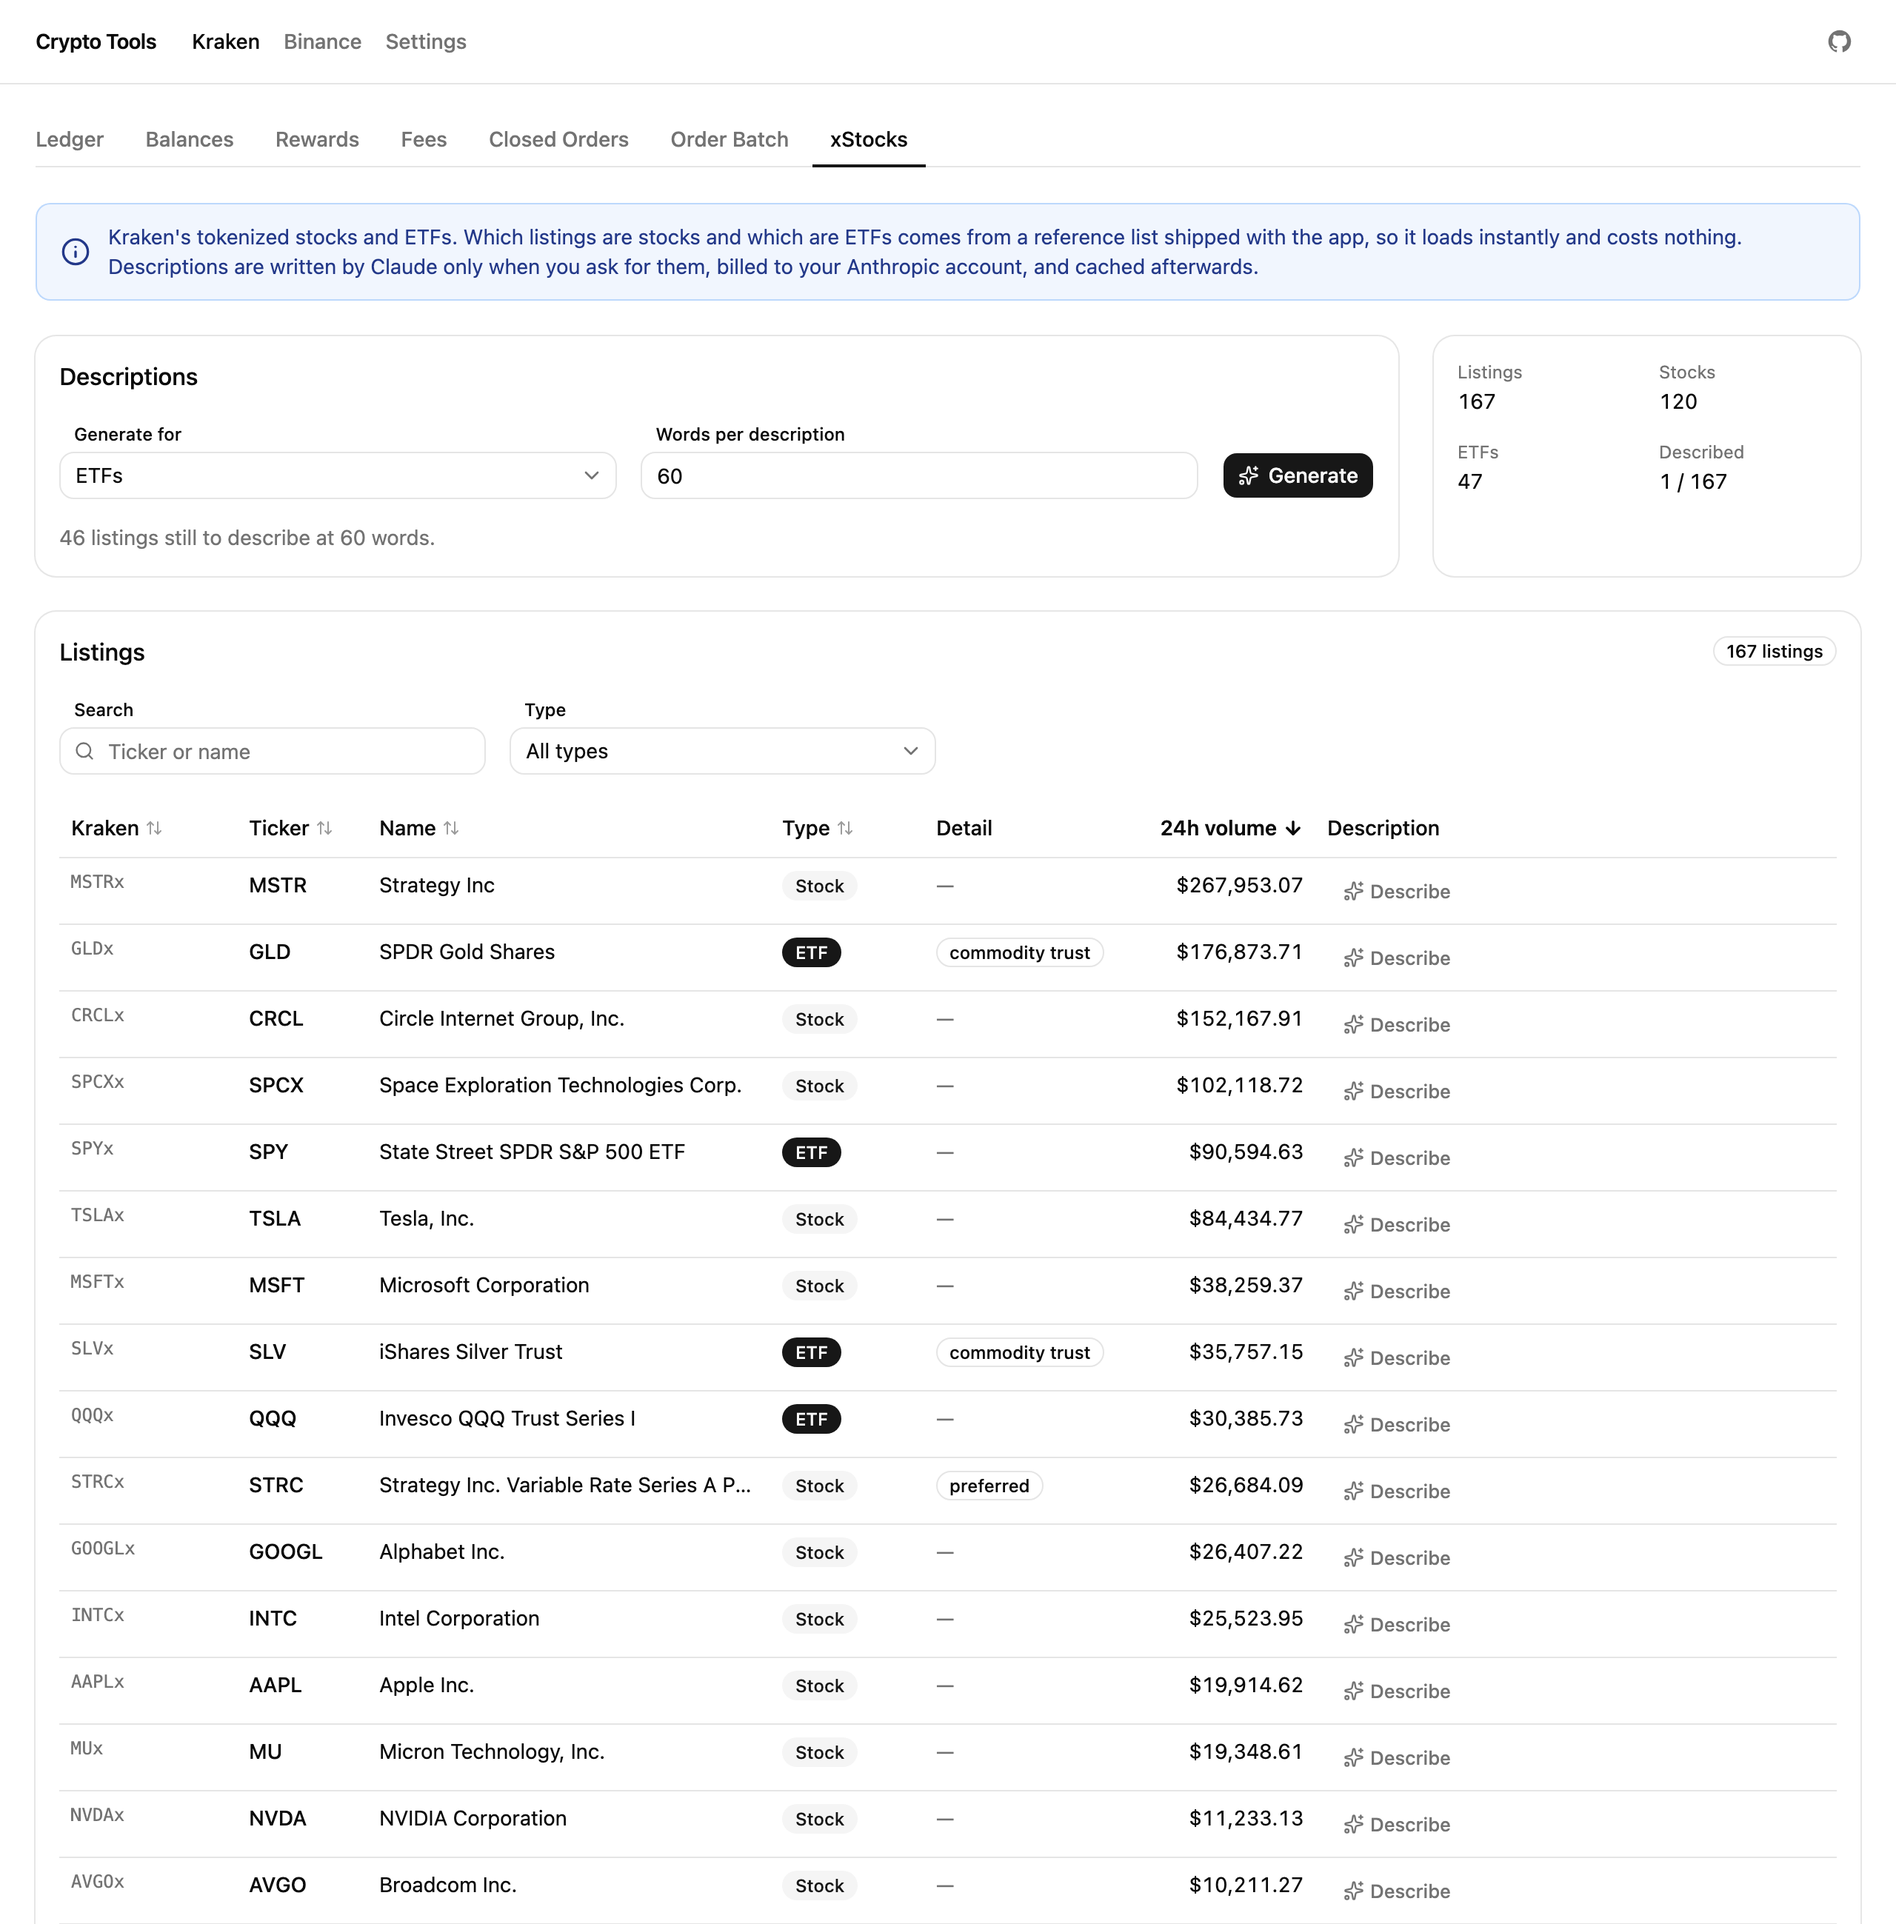
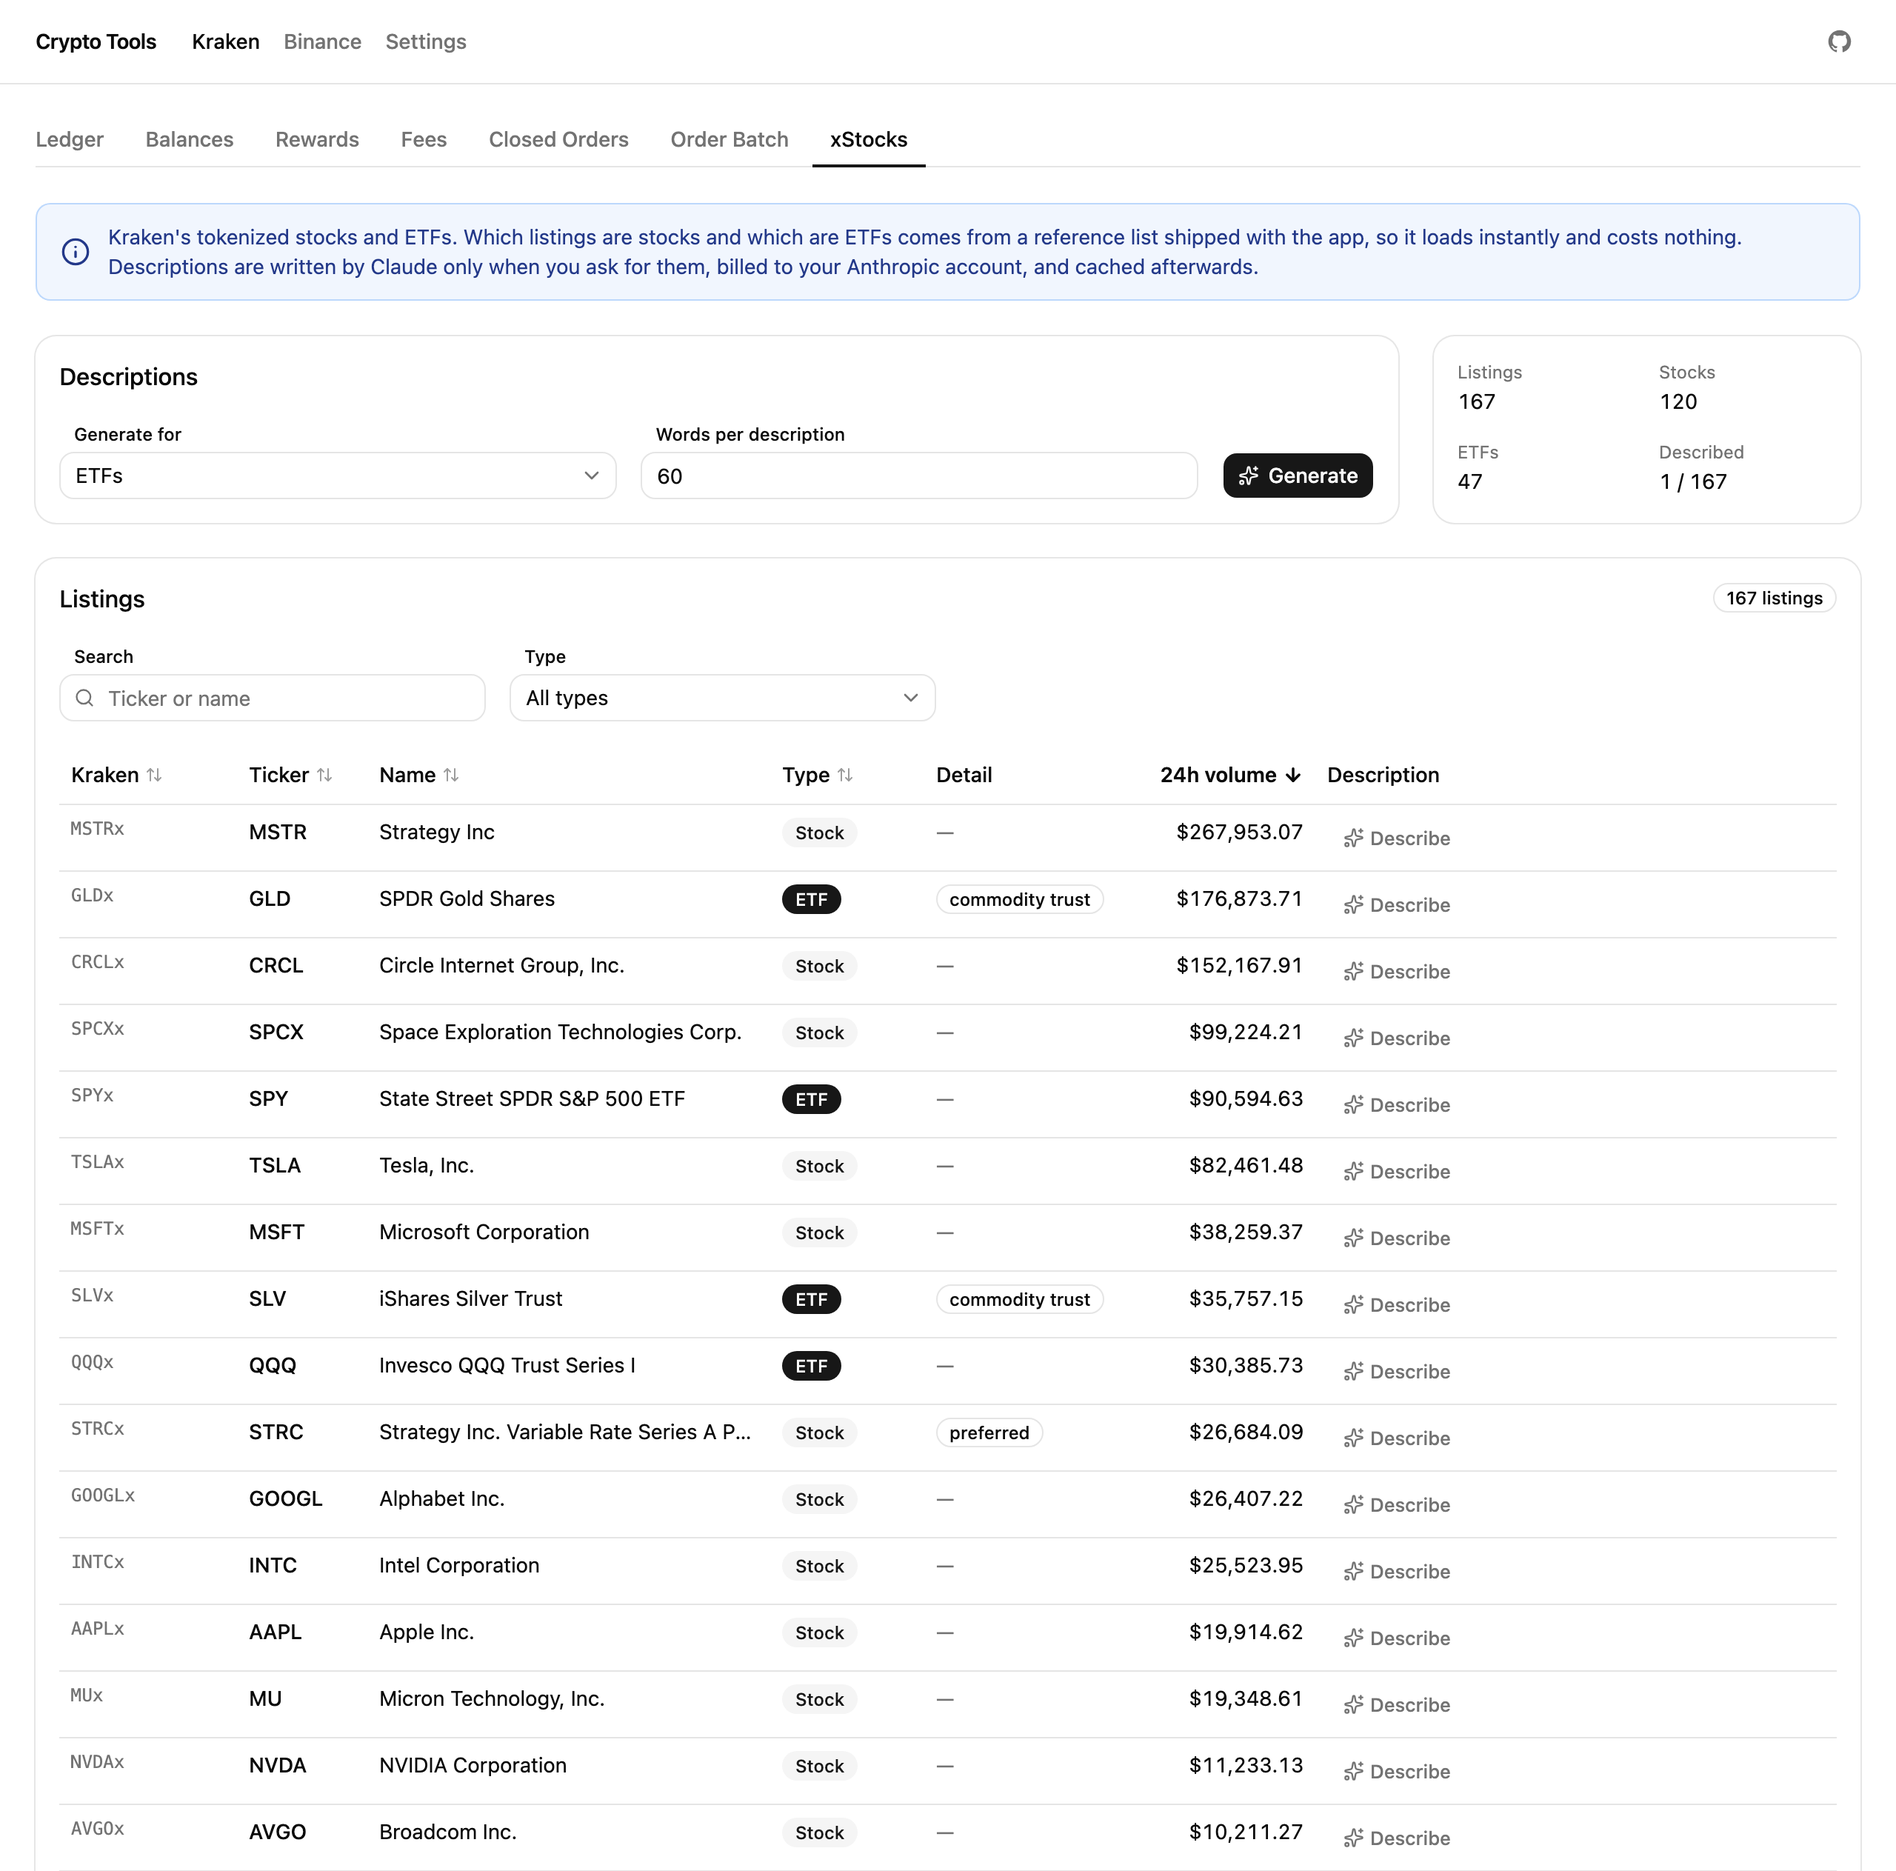
refactor(xstocks): drop the remaining-to-describe line
The count restated what the page already showed: the summary tile gives described against total, and the Generate button greys out once a scope has nothing left in it. Removing it leaves the card as its three controls and nothing else. The count itself stays, since the button still reads it to decide whether it can do anything.

diff --git a/src/views/pages/kraken/xstocks.jsx b/src/views/pages/kraken/xstocks.jsx
@@ -319,12 +319,6 @@ export default function KrakenXStocks() {
                            </AlertDescription>
                         </Alert>}
 
-                     {!isBusy &&
-                        <p className="text-sm text-muted-foreground">
-                           {pendingInScope === 0
-                              ? 'Everything in scope already has a description.'
-                              : `${asCount(pendingInScope, 'listing')} still to describe at ${wordCount} words.`}
-                        </p>}
                   </CardContent>
                </Card>
 
